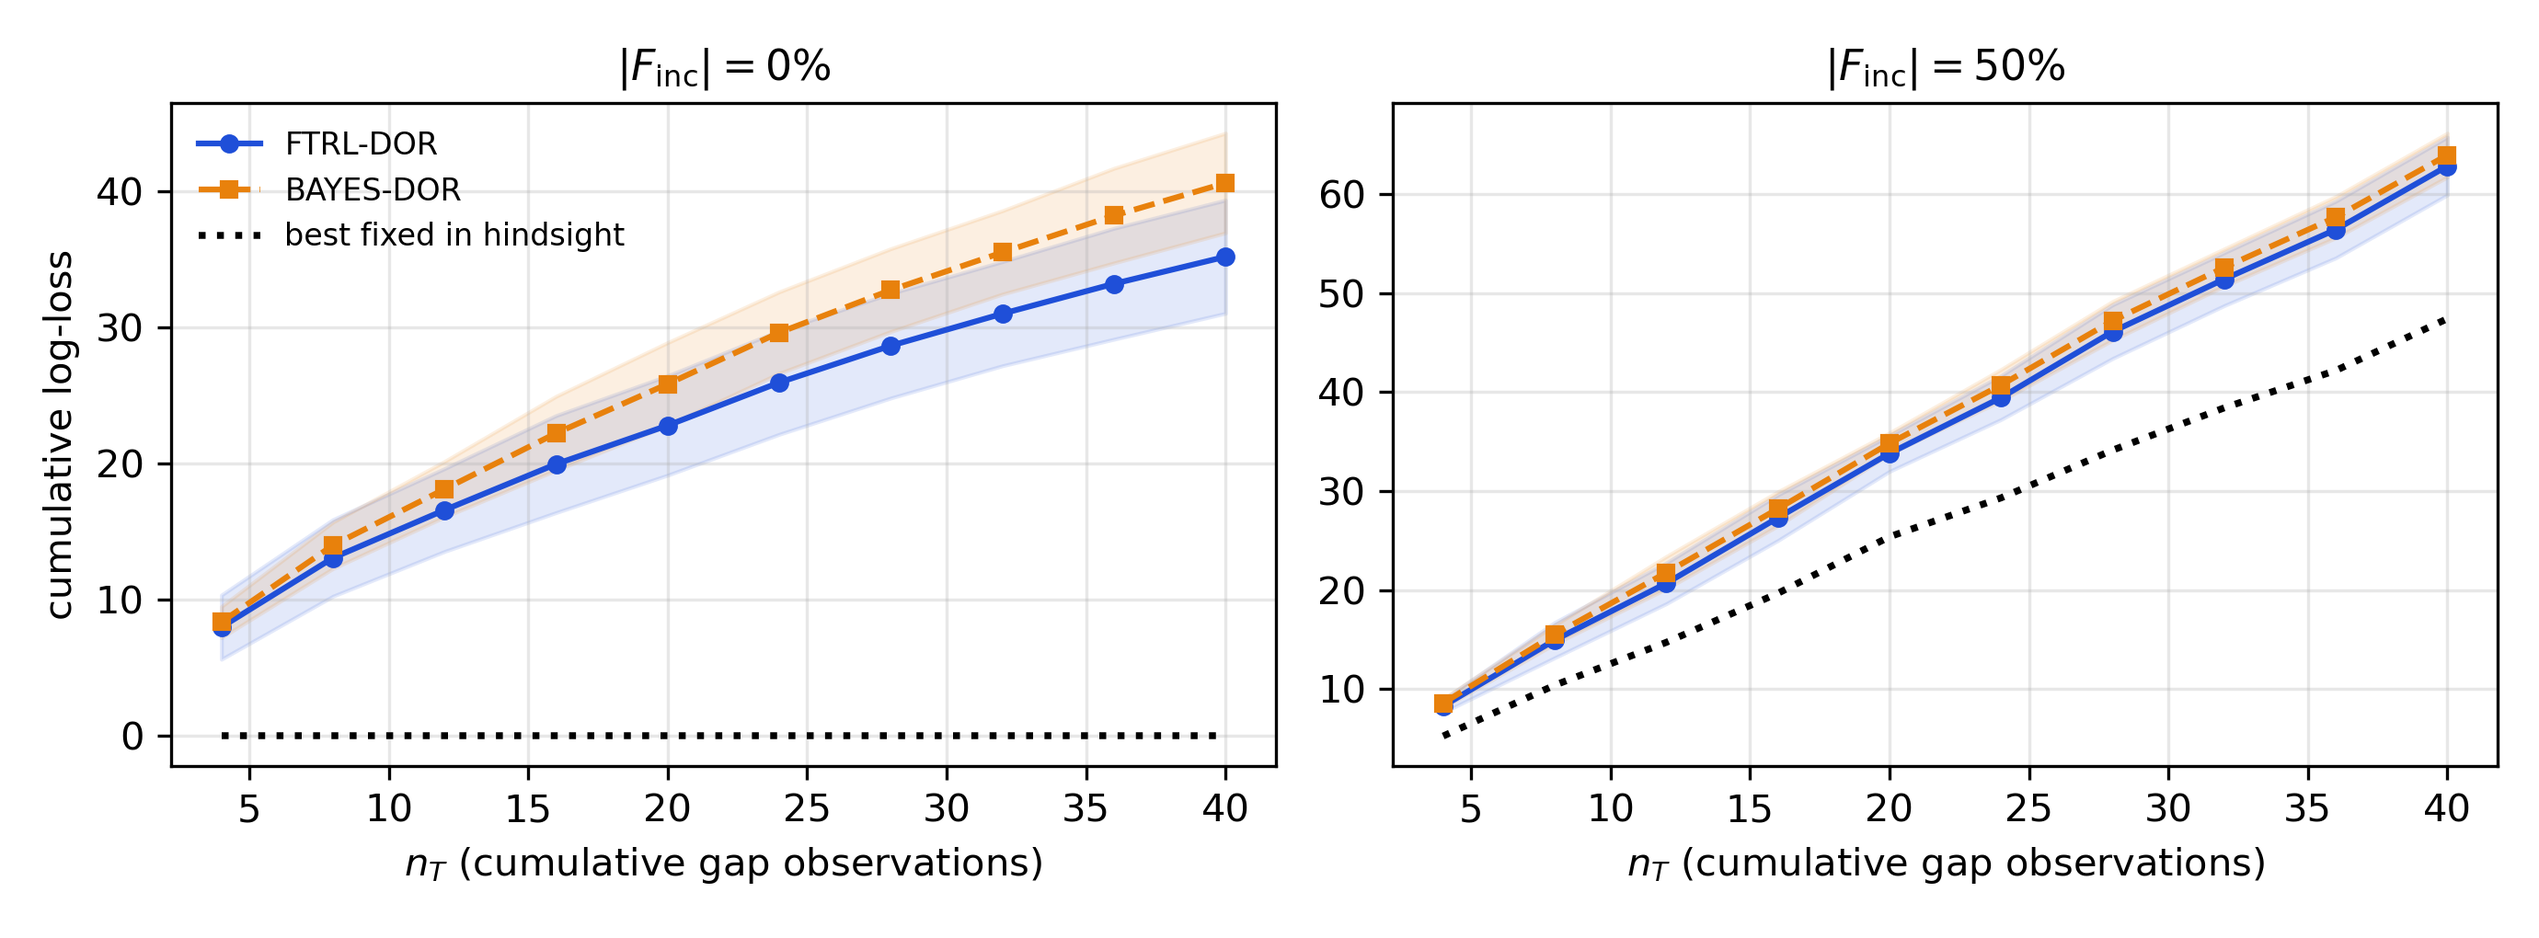
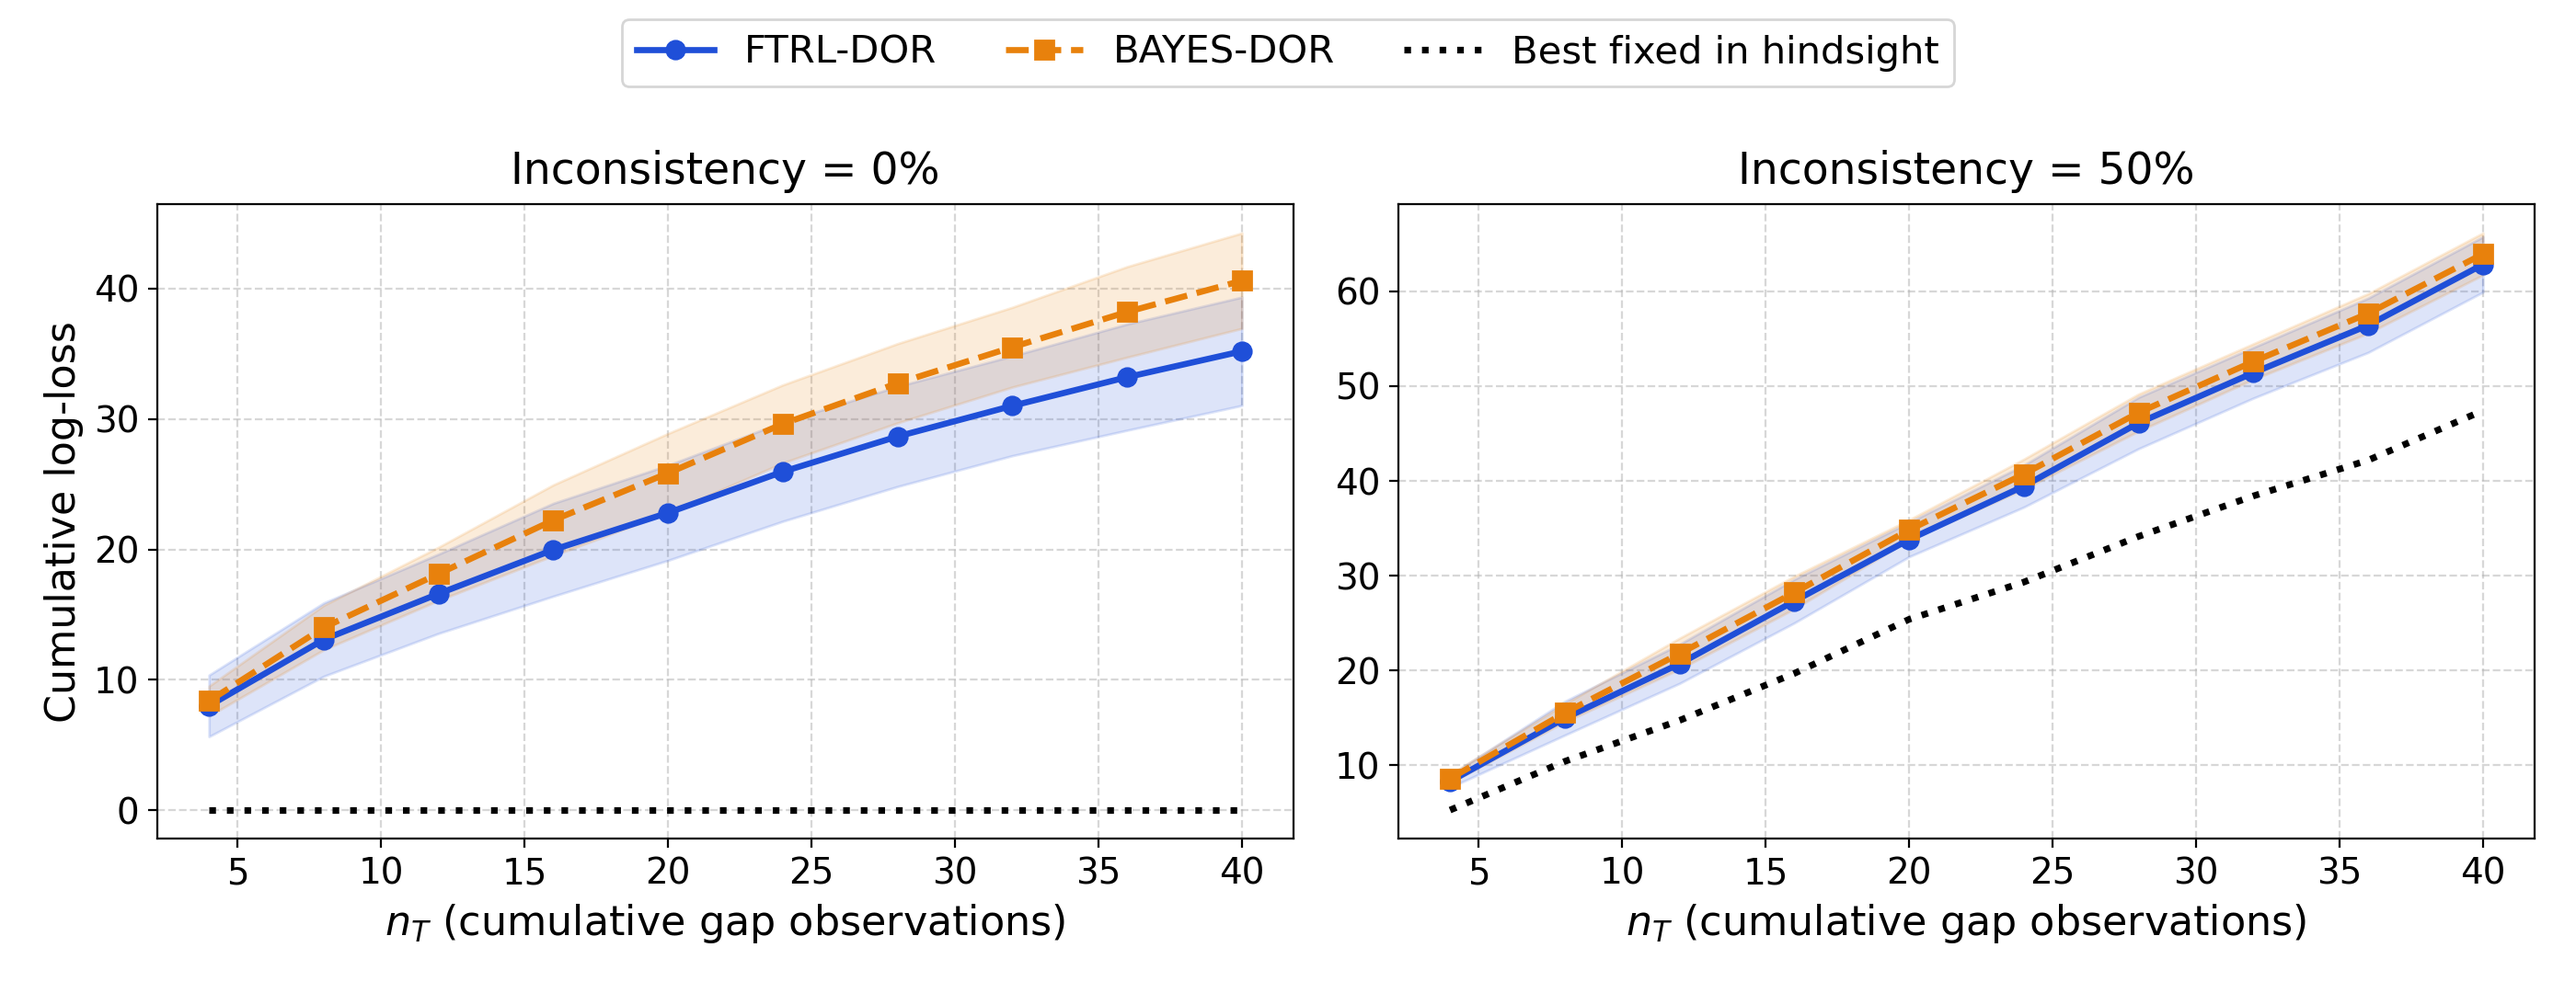
Polish paper figures to match the June figure style
Larger fonts throughout; "Mean metric value" y-label and colored bold bar
values on fig_overall; descriptive column titles, bold row labels and framed
legend outside on top for fig_factors; same top-legend treatment for the
baselines, log-loss and tau figures; tau top axis annotated as s-bar values.

diff --git a/make_paper_figs_v1.py b/make_paper_figs_v1.py
@@ -1,8 +1,11 @@
 """
-Paper-grade figures for the rewritten experimental section (main_new_base.tex).
+Paper-grade figures for the rewritten experimental section (main_new_base.tex),
+styled to match the June paper figures (fig_overall.png / fig_factors.png):
+large fonts, framed legends outside on top, descriptive column titles, bold
+row labels, dashed grid.
 
 Writes into paper_figs/:
-  fig_overall_v1.png       - overall mean accuracy bars, FTRL vs BAYES (adjacent)
+  fig_overall_v1.png       - overall mean-metric bars, FTRL vs BAYES (adjacent)
   fig_factors_v1.png       - 3x5 marginal-effect grid over the five factors
   fig_baselines_inc_v1.png - ASR/ASP/AIOS vs inconsistency for FTRL/BAYES/SMAA/LP
   fig_logloss_v1.png       - cumulative prequential log-loss vs n_T with the
@@ -19,7 +22,6 @@ import os
 import re
 import csv
 import glob
-import itertools
 import numpy as np
 import matplotlib
 matplotlib.use('Agg')
@@ -30,6 +32,7 @@ OUT = "paper_figs"
 METRICS = ['asrs', 'asps', 'aios']
 MET_LABEL = {'asrs': 'ASR', 'asps': 'ASP', 'aios': 'AIOS'}
 T_LEVELS = [1, 3, 5, 10]
+DPI = 200
 
 STYLE = {
     'FTRL_DOR_ADJJ1':  dict(color='#1f4fd8', ls='-',  marker='o', label='FTRL-DOR'),
@@ -39,8 +42,16 @@ STYLE = {
 }
 
 plt.rcParams.update({
-    'font.size': 10, 'axes.titlesize': 11, 'axes.labelsize': 10,
-    'legend.fontsize': 9, 'figure.dpi': 100,
+    'font.size': 15,
+    'axes.titlesize': 17,
+    'axes.labelsize': 16,
+    'xtick.labelsize': 14,
+    'ytick.labelsize': 14,
+    'legend.fontsize': 16,
+    'grid.linestyle': '--',
+    'grid.alpha': 0.5,
+    'lines.linewidth': 2.4,
+    'lines.markersize': 7,
 })
 
 
@@ -73,37 +84,42 @@ def mean_ci(v):
 
 # ---------------------------------------------------------------- fig_overall
 def fig_overall(results):
-    fig, ax = plt.subplots(figsize=(6.0, 3.4))
+    fig, ax = plt.subplots(figsize=(11, 6.2))
     xs = np.arange(len(METRICS))
     for off, arm in [(-0.18, 'FTRL_DOR_ADJJ1'), (0.18, 'BAYES_DOR_ADJJ1')]:
         st = STYLE[arm]
         means, cis = zip(*[mean_ci(pool(results, arm, m)) for m in METRICS])
-        ax.bar(xs + off, means, width=0.34, yerr=cis, capsize=3,
-               color=st['color'], label=st['label'])
+        ax.bar(xs + off, means, width=0.34, yerr=cis, capsize=5,
+               color=st['color'], label=st['label'],
+               error_kw=dict(lw=1.8, capthick=1.8))
         for x, v in zip(xs + off, means):
-            ax.text(x, v + 0.025, f"{v:.3f}", ha='center', fontsize=9)
+            ax.text(x, v + 0.03, f"{v:.3f}", ha='center', fontsize=17,
+                    fontweight='bold', color=st['color'])
     ax.set_xticks(xs)
-    ax.set_xticklabels([MET_LABEL[m] for m in METRICS])
+    ax.set_xticklabels([MET_LABEL[m] for m in METRICS], fontsize=18)
+    ax.tick_params(axis='y', labelsize=17)
     ax.set_ylim(0, 1)
-    ax.set_ylabel("mean accuracy")
-    ax.legend(frameon=False)
-    ax.grid(axis='y', alpha=0.3)
+    ax.set_ylabel("Mean metric value", fontsize=19)
+    ax.legend(loc='upper left', fontsize=18, framealpha=0.95)
+    ax.grid(axis='y')
+    ax.set_axisbelow(True)
     fig.tight_layout()
-    fig.savefig(os.path.join(OUT, "fig_overall_v1.png"), dpi=300)
+    fig.savefig(os.path.join(OUT, "fig_overall_v1.png"), dpi=DPI)
     plt.close(fig)
     print("Wrote paper_figs/fig_overall_v1.png")
 
 
 # ---------------------------------------------------------------- fig_factors
 def fig_factors(results):
-    factors = [('F1', [10, 20, 35, 50], r"$|A|$"),
-               ('F2', [3, 5, 7, 9], r"$m$"),
-               ('T', T_LEVELS, r"$T$"),
-               ('K', [3, 4, 5], r"$k$"),
-               ('Inc', [0, 15, 35, 50], r"$|F_{\mathrm{inc}}|$ (%)")]
-    fig, axes = plt.subplots(len(METRICS), len(factors), figsize=(13.5, 7.2), sharey='row')
+    factors = [('F1', [10, 20, 35, 50], r"Number of alternatives $|A|$"),
+               ('F2', [3, 5, 7, 9], r"Number of criteria $m$"),
+               ('T', T_LEVELS, r"Elicitation steps $T$"),
+               ('K', [3, 4, 5], r"Subset size $k$"),
+               ('Inc', [0, 15, 35, 50], "Inconsistency (%)")]
+    fig, axes = plt.subplots(len(METRICS), len(factors), figsize=(19.9, 10),
+                             sharey='row')
     for r, metric in enumerate(METRICS):
-        for c, (fac, levels, lab) in enumerate(factors):
+        for c, (fac, levels, title) in enumerate(factors):
             ax = axes[r, c]
             for arm in ['FTRL_DOR_ADJJ1', 'BAYES_DOR_ADJJ1']:
                 st = STYLE[arm]
@@ -114,18 +130,22 @@ def fig_factors(results):
                 means = np.array([s[0] for s in stats])
                 cis = np.array([s[1] for s in stats])
                 ax.plot(levels, means, color=st['color'], ls=st['ls'],
-                        marker=st['marker'], ms=4, label=st['label'])
+                        marker=st['marker'], label=st['label'])
                 ax.fill_between(levels, means - cis, means + cis,
-                                color=st['color'], alpha=0.12)
+                                color=st['color'], alpha=0.15)
             ax.set_xticks(levels)
-            if r == len(METRICS) - 1:
-                ax.set_xlabel(lab)
+            ax.tick_params(labelleft=True)
+            if r == 0:
+                ax.set_title(title, fontsize=16, pad=8)
             if c == 0:
-                ax.set_ylabel(MET_LABEL[metric])
-            ax.grid(alpha=0.3)
-    axes[0, 0].legend(frameon=False, fontsize=8)
-    fig.tight_layout()
-    fig.savefig(os.path.join(OUT, "fig_factors_v1.png"), dpi=300)
+                ax.set_ylabel(MET_LABEL[metric], fontsize=18, fontweight='bold')
+            ax.grid(True)
+            ax.set_axisbelow(True)
+    handles, labels = axes[0, 0].get_legend_handles_labels()
+    fig.legend(handles, labels, loc='upper center', bbox_to_anchor=(0.5, 1.0),
+               ncol=2, fontsize=17, frameon=True, columnspacing=2.5)
+    fig.tight_layout(rect=[0, 0, 1, 0.95])
+    fig.savefig(os.path.join(OUT, "fig_factors_v1.png"), dpi=DPI)
     plt.close(fig)
     print("Wrote paper_figs/fig_factors_v1.png")
 
@@ -134,7 +154,7 @@ def fig_factors(results):
 def fig_baselines(results):
     incs = [0, 15, 35, 50]
     arms = ['FTRL_DOR_ADJJ1', 'BAYES_DOR_ADJJ1', 'SMAA_DOR_ADJJ1', 'DORLP_DOR_ADJJ1']
-    fig, axes = plt.subplots(1, len(METRICS), figsize=(11.5, 3.3))
+    fig, axes = plt.subplots(1, len(METRICS), figsize=(16.5, 5.0))
     for ax, metric in zip(axes, METRICS):
         for arm in arms:
             st = STYLE[arm]
@@ -142,15 +162,18 @@ def fig_baselines(results):
             means = np.array([s[0] for s in stats])
             cis = np.array([s[1] for s in stats])
             ax.plot(incs, means, color=st['color'], ls=st['ls'],
-                    marker=st['marker'], ms=4.5, label=st['label'])
-            ax.fill_between(incs, means - cis, means + cis, color=st['color'], alpha=0.12)
+                    marker=st['marker'], label=st['label'])
+            ax.fill_between(incs, means - cis, means + cis, color=st['color'], alpha=0.15)
         ax.set_xticks(incs)
-        ax.set_xlabel(r"$|F_{\mathrm{inc}}|$ (%)")
-        ax.set_title(MET_LABEL[metric])
-        ax.grid(alpha=0.3)
-    axes[0].legend(frameon=False)
-    fig.tight_layout()
-    fig.savefig(os.path.join(OUT, "fig_baselines_inc_v1.png"), dpi=300)
+        ax.set_xlabel("Inconsistency (%)")
+        ax.set_title(MET_LABEL[metric], fontsize=18, pad=8)
+        ax.grid(True)
+        ax.set_axisbelow(True)
+    handles, labels = axes[0].get_legend_handles_labels()
+    fig.legend(handles, labels, loc='upper center', bbox_to_anchor=(0.5, 1.0),
+               ncol=4, fontsize=16, frameon=True, columnspacing=2.0)
+    fig.tight_layout(rect=[0, 0, 1, 0.90])
+    fig.savefig(os.path.join(OUT, "fig_baselines_inc_v1.png"), dpi=DPI)
     plt.close(fig)
     print("Wrote paper_figs/fig_baselines_inc_v1.png")
 
@@ -161,7 +184,7 @@ def fig_logloss(results):
     F1, F2, K = 10, 3, 5
     incs = [0, 50]
     n_tab = 5  # tables common to the BAYES and FTRL arms
-    fig, axes = plt.subplots(1, len(incs), figsize=(9.2, 3.4), sharex=True)
+    fig, axes = plt.subplots(1, len(incs), figsize=(14, 5.4), sharex=True)
     gaps = {}
     for ax, inc in zip(axes, incs):
         cs = f"F1={F1}_F2={F2}_S=10_AR={K}_K={K}_Inc={inc}"
@@ -175,19 +198,22 @@ def fig_logloss(results):
             m = cum.mean(axis=1)
             se = cum.std(axis=1) / np.sqrt(n_tab)
             ax.plot(n_t, m, color=st['color'], ls=st['ls'], marker=st['marker'],
-                    ms=4, label=st['label'])
-            ax.fill_between(n_t, m - 1.96 * se, m + 1.96 * se, color=st['color'], alpha=0.12)
+                    label=st['label'])
+            ax.fill_between(n_t, m - 1.96 * se, m + 1.96 * se, color=st['color'], alpha=0.15)
             gaps[(inc, arm, 'final')] = m[-1]
         hs = hindsight_loss(f"grid_{cs}", F1, F2, 10, n_tab, 'adjacent')
-        ax.plot(n_t, hs, color='k', ls=':', lw=1.8, label='best fixed in hindsight')
+        ax.plot(n_t, hs, color='k', ls=':', lw=2.6, label='Best fixed in hindsight')
         gaps[(inc, 'hindsight', 'final')] = hs[-1]
-        ax.set_title(rf"$|F_{{\mathrm{{inc}}}}| = {inc}\%$")
+        ax.set_title(f"Inconsistency = {inc}%", fontsize=17, pad=8)
         ax.set_xlabel(r"$n_T$ (cumulative gap observations)")
-        ax.grid(alpha=0.3)
-    axes[0].set_ylabel("cumulative log-loss")
-    axes[0].legend(frameon=False, fontsize=8)
-    fig.tight_layout()
-    fig.savefig(os.path.join(OUT, "fig_logloss_v1.png"), dpi=300)
+        ax.grid(True)
+        ax.set_axisbelow(True)
+    axes[0].set_ylabel("Cumulative log-loss")
+    handles, labels = axes[0].get_legend_handles_labels()
+    fig.legend(handles, labels, loc='upper center', bbox_to_anchor=(0.5, 1.0),
+               ncol=3, fontsize=15, frameon=True, columnspacing=1.8)
+    fig.tight_layout(rect=[0, 0, 1, 0.89])
+    fig.savefig(os.path.join(OUT, "fig_logloss_v1.png"), dpi=DPI)
     plt.close(fig)
     print("Wrote paper_figs/fig_logloss_v1.png")
     for inc in incs:
@@ -220,7 +246,7 @@ def fig_sets_tau():
         print(f"  tau={tau:g}: mean levels/session {np.mean(lv):.2f}, "
               f"multi-level share {np.mean(ml) * 100:.1f}%")
 
-    fig, axes = plt.subplots(1, len(METRICS), figsize=(11.5, 3.5))
+    fig, axes = plt.subplots(1, len(METRICS), figsize=(16.5, 5.4))
     for ax, metric in zip(axes, METRICS):
         for arm, st in arms:
             means, cis = [], []
@@ -236,20 +262,21 @@ def fig_sets_tau():
                           f"(n={np.sum(~np.isnan(v))}/{len(v)})")
             means = np.array(means); cis = np.array(cis)
             ax.plot(taus, means, color=st['color'], ls=st['ls'], marker=st['marker'],
-                    ms=4.5, label=st['label'])
-            ax.fill_between(taus, means - cis, means + cis, color=st['color'], alpha=0.12)
+                    label=st['label'])
+            ax.fill_between(taus, means - cis, means + cis, color=st['color'], alpha=0.15)
         ax.set_xticks(taus)
-        ax.set_xlabel(r"merge threshold $\tau$")
-        ax.set_title(MET_LABEL[metric])
-        ax.grid(alpha=0.3)
+        ax.set_xlabel(r"Merge threshold $\tau$")
+        ax.set_title(MET_LABEL[metric], fontsize=18, pad=30)
+        ax.grid(True)
+        ax.set_axisbelow(True)
         sec = ax.secondary_xaxis('top')
         sec.set_xticks(taus)
-        sec.set_xticklabels([f"{slev[t]:.1f}" for t in taus], fontsize=8)
-        if metric == 'asrs':
-            sec.set_xlabel(r"mean levels per session $\bar{s}$", fontsize=8)
-    axes[0].legend(frameon=False)
-    fig.tight_layout()
-    fig.savefig(os.path.join(OUT, "fig_sets_tau_v1.png"), dpi=300)
+        sec.set_xticklabels([rf"$\bar{{s}}={slev[t]:.1f}$" for t in taus], fontsize=12)
+    handles, labels = axes[0].get_legend_handles_labels()
+    fig.legend(handles, labels, loc='upper center', bbox_to_anchor=(0.5, 1.0),
+               ncol=2, fontsize=16, frameon=True, columnspacing=2.5)
+    fig.tight_layout(rect=[0, 0, 1, 0.88])
+    fig.savefig(os.path.join(OUT, "fig_sets_tau_v1.png"), dpi=DPI)
     plt.close(fig)
     print("Wrote paper_figs/fig_sets_tau_v1.png")
 
